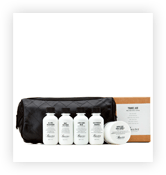
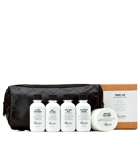
изменила хедер и футер у item.html, частично стилизовала item.html, убрала тень у картинок, изменила фон на главной и странице товара

Changed region(s): [[0.0, 0.5369, 1.0, 0.8859], [0.8286, 0.698, 0.8571, 0.7248]]

diff --git a/item.html b/item.html
@@ -5,31 +5,37 @@
   <meta name="viewport" content="width=device-width, initial-scale=1.0">
   <meta http-equiv="X-UA-Compatible" content="ie=edge">
   <title>Барбершоп "Бородинский"</title>
+  <link rel="stylesheet" type="text/css" href="style.css">
+
 </head>
 <body>
   <header class="main-header">
     <div class="container">
+      <img src="img/mini-logo.png" alt="logo" width="111px">
       <nav class="main-navigation">
         <ul>
           <li><a href="#">Информация</a></li>
           <li><a href="#">Новости</a></li>
           <li><a href="#">Прайс-лист</a></li>
-          <li><a href="#">Магазин</a></li>
+          <li class="nav-chosen"><a href="#">Магазин</a></li>
           <li><a href="#">Контакты</a></li>
         </ul>
       </nav>
       <div class="user-block">
-        <a class="login" href="#">Вход</a>
+        <a class="login" href="#"><img src="img/icon-login.png" alt="Вход">Вход</a>
       </div>
     </div>
   </header>
 
-<main class="container">
+<main class="container item">
   <h1>НАБОР ДЛЯ ПУТЕШЕСТВИЙ «BAXTER OF CALIFORNIA»</h1>
   <ul>
     <li class="bread-crops">ГЛАВНАЯ</li>
+    <li class="bread-crops d19"></li>
     <li class="bread-crops">МАГАЗИН</li>
+    <li class="bread-crops d19"></li>
     <li class="bread-crops">СРЕДСТВА ДЛЯ УХОДА</li>
+    <li class="bread-crops d19"></li>
     <li class="bread-crops">НАБОР ДЛЯ ПУТЕШЕСТВИЙ «BAXTER OF CALIFORNIA»</li>
   </ul>
   <div class="product-images">
@@ -42,7 +48,7 @@
   <div class="product-details">
     <div class="product-description">
       <p class="pr-status">Есть в наличии</p>
-      <p class="pr-art"></p>
+      <p class="pr-art">Артикул: dexter-ae</p>
       <p class="pr-about">Travel Kit – необходимый аксессуар во время любого путешествия. В аккуратной кожаной сумке находится все, что нужно для бритья и ухода за кожей во время рабочей поездки или отдыха: средство для умывания, увлажняющий крем, крем для бритья, крем после бритья, шампунь. Набор также может стать отличным подарком.</p>
     </div>
 
@@ -64,29 +70,31 @@
   </div>
 </main>
 
-  <footer class="main-footer">
-    <div class="container">
-      <section class="footer-contacts">
-        <p>Барбершоп Бородинский<br>
-        Адрес: г. Санкт-Петербург, Б. Конюшенная, д. 19/8<br>
-        <a href="#">Как нас найти?</a><br>
-        Телефон: +7(911)90-91
-        </p>
-      </section>
+<footer class="main-footer">
+  <div class="container">
+    <section class="footer-contacts">
+      <p>Барбершоп «Бородинский»<br>
+      Адрес: г. Санкт-Петербург, Б. Конюшенная, д. 19/8<br>
+      <a href="#">Как нас найти?</a><br>
+      Телефон: +7(495)666-02-66
+      </p>
+    </section>
 
-      <section class="footer-social">
-        <p>Давайте дружить</p>
-        <a class="social-btn social-btn-vk" href="#">Вконтакте</a>
-        <a class="social-btn social-btn-fb" href="">Фейсбук</a>
-        <a class="social-btn social-btn-inst" href="#">Инстаграм</a>
-      </section>
+    <section class="footer-social">
+      <p>Давайте дружить!</p>
+      <a class="social-btn social-btn-vk" href="#"> <img src="img/vk.png" alt="Вконтакте"></a>
+      <a class="social-btn social-btn-fb" href="#"><img src="img/fb.png" alt="Фейсбук"></a>
+      <a class="social-btn social-btn-inst" href="#"><img src="img/inst.png" alt="Инстаграм"></a>
+    </section>
 
-      <section class="footer-copyright">
-        <p>Разработано:</p>
-        <a class="btn" href="#">&copy; Katrusya</a>
-      </section>
-    </div>
-  </footer>
+    <section class="footer-copyright">
+      <p>Сайт создан:</p>
+      <a class="btn" href="#">&copy; Danilova Ekaterina</a>
+      <p>Дизайн разработан:</p>
+      <a class="btn" href="#">&copy; htmlacademy.ru</a>
+    </section>
+  </div>
+</footer>
 
 </body>
 </html>

diff --git a/style.css b/style.css
@@ -1,15 +1,16 @@
 body {
-  font: bold 14px "PT Sans Narrow", sans-serif;
-  line-height: 24px;
-  color: #fff;
-  text-transform: uppercase;
-  background: url(img/bg.jpg) no-repeat;
+  background: url(img/add-bg.png) no-repeat;
   background-color: #000;
   background-size: 100%;
   padding: 0px;
   margin: 0px;
   margin-left: auto;
   margin-right: auto;
+
+  font: bold 14px "PT Sans Narrow", sans-serif;
+  line-height: 24px;
+  color: #fff;
+  text-transform: uppercase;
 }
 
 a {
@@ -43,7 +44,17 @@ li.nav-chosen {
   border-bottom: 3px solid #fff;
 }
 
+/*index.html*/
 /*Хедер*/
+.main-body {
+  background: url(img/bg.jpg) no-repeat;
+  background-color: #000;
+  background-size: 100%;
+  padding: 0px;
+  margin: 0px;
+  margin-left: auto;
+  margin-right: auto;
+}
 
 .main-header {
   position: fixed;
@@ -104,6 +115,10 @@ li.nav-chosen {
   margin-right: 35px;
   padding-top: 20px;
   padding-bottom: 20px;
+}
+
+.main-navigation li:hover {
+  border-bottom: 3px solid #fff;
 }
 
 .main-navigation a, .user-block a {
@@ -368,4 +383,88 @@ a.social-btn-fb {
   color: #fff;
 
   background: #000;
+}
+
+/* item.html */
+.item {
+  padding-top: 125px;
+
+  color: #000000;
+}
+
+.item ul {
+  margin-top: 29px;
+  margin-bottom: 50px;
+}
+
+li.bread-crops {
+  display: inline-block;
+  margin-right: 15px;
+}
+
+li.bread-crops:last-child {
+  color: #aba9a7;
+}
+
+/* Ромбы для крошек начало*/
+.d19 {
+width: 0;
+height: 0;
+border: 5px solid transparent;
+border-bottom-color: #000000;
+position: relative;
+top: -4px;
+}
+.d19:after {
+content: "";
+width: 0;
+height: 0;
+position: absolute;
+left: -5px;
+top: 5px;
+border: 5px solid transparent;
+border-top-color: #000000;
+}
+/* Ромбы конец */
+
+
+/* Позиционирование основного содержимого item.html*/
+
+.product-images,
+.product-details {
+  display: inline-block;
+  width: 45%;
+  margin: 0px;
+}
+
+/* Изображения товара*/
+
+.product-images img {
+  box-shadow: 0 0 10px rgba(0,0,0,0.3);
+}
+
+.product-image-additional {
+  margin-top: 15px;
+  margin-right: 17px;
+}
+
+.product-image-additional:last-child {
+  margin-right: 0px;
+}
+
+/* Текстовая информация на странице */
+.product-details {
+  vertical-align: top;
+}
+
+.pr-status {
+  display: inline-block;
+  width: 45%;
+}
+
+.pr-art {
+  display: inline-block;
+  width: 45%;
+  float: right;
+  text-align: right;
 }

diff --git a/index.html b/index.html
@@ -5,7 +5,7 @@
 		<title>Барбершоп "Бородинский"</title>
 		<link rel="stylesheet" type="text/css" href="style.css">
 	</head>
-	<body>
+	<body class="main-body">
 		<header class="main-header">
 			<div class="container">
 				<img src="img/mini-logo.png" alt="logo" width="111px">
